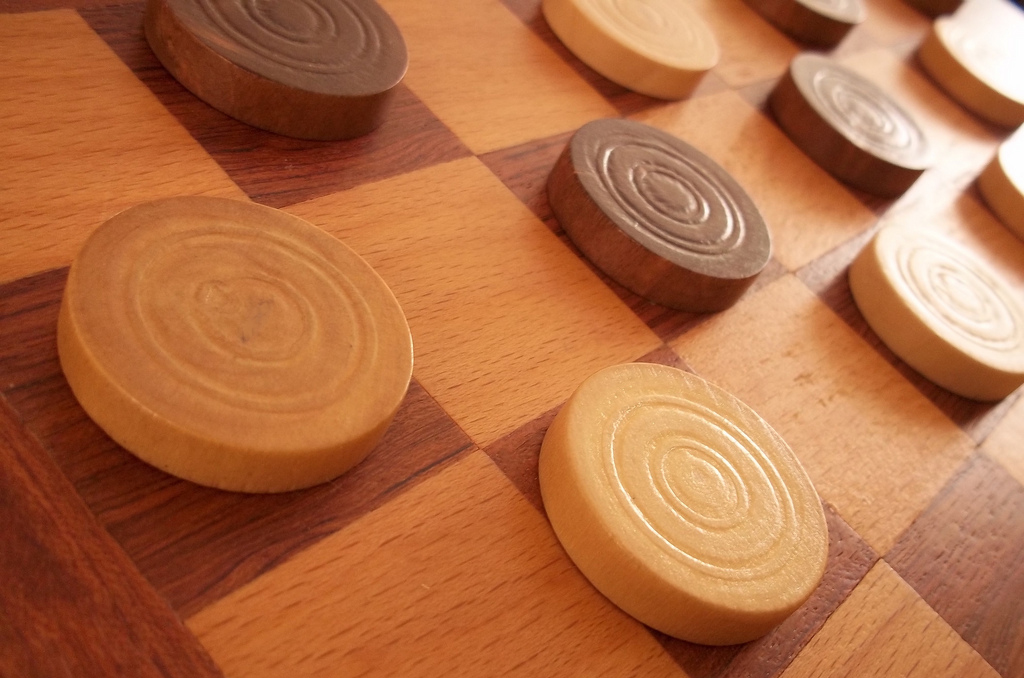
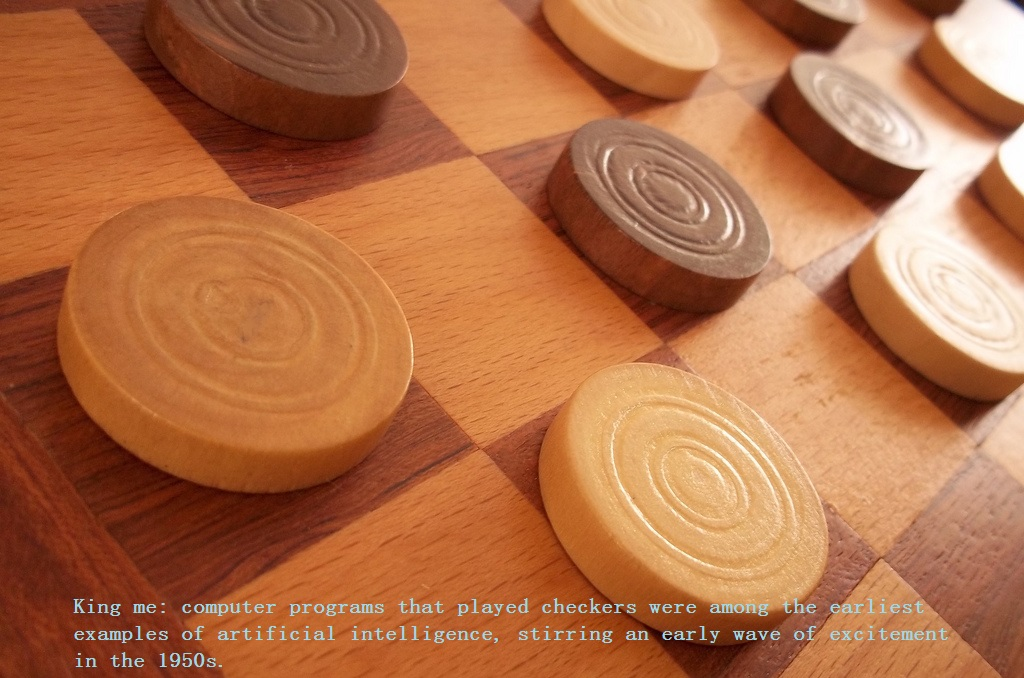
update 白话机器学习和人工智能
翻译完”机器学习简史“。

Changed region(s): [[0.0625, 0.8673, 0.9375, 0.9912]]

diff --git a/机器学习简史.md b/机器学习简史.md
@@ -1,0 +1,78 @@
+![](./illustration/白话机器学习和人工智能/4.brief-history-of-ai-diagram.jpg)
+
+由于科学、技术，包括AI的最初立场，科技工作者跟随Blaise Pascal（布莱兹·帕斯卡）和Von Leibniz（冯·莱布尼茨）仔细考虑关于和差不多具有人类智能的机器。著名作家，像Jules Verne(儒勒·凡尔纳)、Frank Baum（弗兰克·鲍姆：Wizard of OZ（绿野仙踪））、Marry Shelly（玛丽·雪莱：Frankenstein（科学怪人））、George Lucas（乔治·卢卡斯：Star Wars（星球大战））都幻想人造生物，和人类一样的行为、甚至更厉害，在不同的情境下让人化的技能陷入困境（**swamp** *humanized skills in different contexts*）。
+
+![](./illustration/白话机器学习和人工智能/5.machine-of-pascal.jpg)
+
+ML是科研和工业界火热（spicy hot：麻辣）主题AI的重要方向（lane：航线）之一。公司、大学投入大量资源来发展认知。该领域最近的发展推进不同任务取得可靠结果（solid result），与人类表现对比，在[交通信号](http://benchmark.ini.rub.de/?section=gtsrb&subsection=results&subsubsection=ijcnn "IJCNN2011")方面取得98.98%的正确率，比人类还高。
+
+本文想要分享一份粗糙的ML时间线并标记出某些里程碑——绝不是结束。另外，读者可以在本文任何论证的开头加入“在笔者的知识范围”（客气的话——表示能力有限）。
+
+名声大噪的ML最早由Hebb（赫布）在1949年提出，基于神经心里学（neuropsychological）学习构想（formulation）。称作“Hebbian Learning（赫布学习）”理论。做个简单的解释，它继续递归神经网络（recurrent neural network：RNN）的节点之间的相互关系。它记忆网络上的共性然后像记忆一样可用。形式上，这个论证如此陈述。
+
+假定反射活动（reverberatory activity or trace）的持久化或副本具备诱导细胞加入自身稳定性的持续变更的倾向……当细胞A的轴突（axon）足够让临近的细胞B兴奋并且重复或不断参与点燃B，某些生长过程或新陈代谢（metabolic）的变化在A、B细胞中发生，以致A的这种效果增强，A是点燃B的细胞之一。
+
+![](./illustration/白话机器学习和人工智能/6.arthur-samuel-using-ibm-100-700-series-checkers.jpg)
+
+Arthur Samuel（亚瑟·塞缪尔）与1952年在IBM开发了玩国际象棋的程序。该程序能够观察位置并学习一个隐式模型来给随后的情况提供更好的移动。自己和这个程序玩了很多次游戏，发现该程序经过一段时间会玩的更好。
+
+根据这个程序，亚瑟·塞缪尔驳斥传统的“普罗维登斯”预言机器不能超越手写代码并像人类一样学习模式，创造“Machine Learning”这个概念，定义为“无须显式编程就可以赋予计算机学习能力的研究领域（a field of study that gives computer the ability without being explicitly programmed）”。
+
+![](./illustration/白话机器学习和人工智能/7.rosenblatt-at-ratlab.jpg)
+
+Rosenblatt（罗森布拉特）的感知机（perceptron）是第二个被提到的有着神经系统背景的模型，它和目前的机器学习模型更相似。它在当时是件十分令人激动的发现，比赫布的想法更有实际应用性。罗森布拉特这样介绍感知机：
+
+	感知机设计来阐明一般而言的智能系统的某些基本性质，不要深陷特殊的、几个那场未知的适用特定生物有机体的情况。
+
+三年后，Widrow带着Delta Learning规则的烙印——就是用作感知机训练的实际程序。它也因“最小二乘（Least Square）问题”知名。将这两个想法结合起来，产生好的线性分类器。然而，感知机带来的兴奋在1969年被Minsky（明斯基）绞杀（hinge），提出著名的“异或问题”，感知机对这种不可线性分割的数据分布无能为力。这是明斯基留给NN社区待解决的、NN探索自此休眠到十九世纪八十年代。
+
+![](./illustration/白话机器学习和人工智能/8.xor-problem.png)
+
+直到1981年Werbos（韦伯斯）的多层感知机（Multi-Layer Perceptron：MLP）直觉，建议采用NN特殊的反向传播（Backpropagation：BP）算法，虽然（albeit）BP的想法更早之前的1970年被[Linnainmaa](http://faculty.chicagobooth.edu/juhani.linnainmaa/ "Juhani T. Linnainmaa")以“自动分异方式（reverse mode of automatic differentiation）”的名字提出。BP至今仍然是当今NN架构的要素。伴随这些新的想法，NN研究再次加速。在1985年和1986年，研究者成功呈递通过实用BP训练的MLP（Rumelhart、Hinton、Williams、Hetch、Nielsen）。
+
+![](./illustration/白话机器学习和人工智能/9.hetch-nielsen-nn.png)
+
+别的阵地（spectrum：频谱、范围）同样有收获，J.R.Quinlan（昆兰）于1986年提出著名的ML算法“决策树（Decision Tree）”、更特别的ID3算法。这是另一个主流ML的闪光点。此外，因其和仍旧黑盒的NN模型相反的过分简单化的规则和明确的推理，ID3还被作为能够找寻更多现实生活用到的情况的软件发布。
+
+在ID3之后，很多不同的选项或提升被社区开发出来（例如ID4、回归树、CART……），至今仍是ML的活跃话题。
+
+![](./illustration/白话机器学习和人工智能/a.quinlan-id3.png)
+
+ML另一项重要突破时[Vapnik](http://datascience.columbia.edu/vladimir-vapnik "Vladimir Vapnik")（瓦普尼克）和Cortes（科特斯）于1995年以很强的理论姿态和实践结果提出的支持向量机（Support Vector Machines：SVM）。此时ML社区分为两拨拥护者：NN或SVM。然而，2000年左后的SVM核心版本（Kernelized）之后，竞对NN一方来说很不容易。SVM在之前NN模型占据的很多任务表现最好。另外，SVM能开拓所有深厚的知识：凸面体最优化（convex optimization）、generalization margin theory和kernels against NN模型。SVM能从不同学科找到巨大推理，引发十分快速的理论和实践提升。
+
+![](./illustration/白话机器学习和人工智能/b.vapnik-svm.png)
+
+在1991年，NN被Hochreiter（霍克赖特）的论文，在2001年又被霍克赖特等人的著作“损害”，展示随着应用BP学习，在NN单元饱和后的梯度损失。简单意思，对于训练NN单元来说，在特定数量迭代（epoch）后是冗余的，因为饱和的单元，NN很快趋于过度拟合，在此后少数迭代内。
+
+在这之前不久，另外一个可靠的ML模型由Freund和Schapire在1997年提出，以弱分类器的总体效果提升规定，叫做Adaboost。这项工作同时让作者获得哥德尔（Godel）奖。Adaboost训练一个容易被训练的弱分类器集，对困难实例更重要。这个模型仍旧是很多不同任务的基础，像面部识别的检测。它也是PAC（Probably Approximately Correct：可能近似正确）学习理论的实现。通常，所谓弱分类器被选作简单决策树桩（stump）(单决策树节点)。这样介绍Adaboost：
+
+	学习的该模型能被表述为一个充分研究的在线预测模型的宽泛的、抽象的扩展到一个通用决策理论环境……
+
+另外一个总体效果模型被Breiman于2001年开发，通过实例的每个随机子集“副牧师”、每个从特征的随机子集选择的节点获取总体效果。由于它的天性，被称作“Random Forests（RF：随机森林）”。RF同样有着理论和实践的证明可以持久抗过度拟合。甚至Adaboost在过度拟合和包含异常值的数据实例面前表现得脆弱，[RF](http://www.erogol.com/randomness-randomforests/ "随机森林")是对这些警告（caveat）更健壮的模型。RF在别的任务如Kaggle比赛同样取得成功。
+
+RF是树预测器（tree predictor）簇的结果，这样每个树依赖独立采样的随机向量的值，这个随机采样过程对整个森林里每棵树有着相同的分布。森林的一般化错误随着森林中树的量的增加收敛到一个极限。
+
+由于大部分人刚刚了解ML，一个称作Deep Learning的NN新纪元已经商业化。该短语简化涉及NN模型的很多连续的层。NN的第三次野蛮成长（rise roughly）在2005年，很多来自过去和现在的内行发觉者同时发声，[Hinton](http://www.cs.toronto.edu/~hinton/ "Geoffrey E. Hinton")、[LeCun](http://yann.lecun.com/ "Yann.LeCun")、[Bengio](http://www.iro.umontreal.ca/~bengioy/ "Yoshua Bengio")、[Andrew Ng](http://ai.stanford.edu/~ang/ "吴恩达")和其余有价值的老探索者。这里列举部分重要的标题（对深度学习有特别贡献的）：
+
+- GPU编程
+- 卷积神经网络
+  - 去卷积网络
+- 最优化算法
+  - 随机梯度下降（Stochastic Gradient Descent）
+  - BFGS和L-BFGS
+  - 共轭梯度下降（Conjugate Gradient Descent）
+  - 反向传播
+- 整流单元（Rectifier Units）
+- 稀疏（Sparsity）
+- Dropout Nets
+  - Maxout Nets
+- 无监督神经网络模型（Unsupervised NN modles）
+  - 深度信任网络（Deep Belief Networks）
+  - Stacked Auto-Encoders
+  - 去噪神经网络模型（Denoising NN models）
+
+把列出和未列出的想法结合起来，NN模型能够打败不同任务的工艺现状，例如对象识别、语音识别、自然语言处理等等。然而，要强调的是，这决不意味着别的ML流派的终结。即使深度学习的成功故事增长迅速，仍有很多批评针对训练成本和调教这些模型外因的参数。此外，因其简易、SVM仍是最常用的方式。
+
+结束之前，笔者提下另一种相对年轻的ML趋势。
+
+在社会媒体和WWW的增长下，新的术语，BigData浮出水面，并且广泛影响ML探索。由于大数据出现的大问题，很多强大的ML算法对合理的系统无效（对巨大的科技公司自然无用）。因此，出现一组新的简单模型，称作“Bandit Algorithms（恶棍算法）”（通过在线学习正式预测），让学习更容易，适合大型问题。
